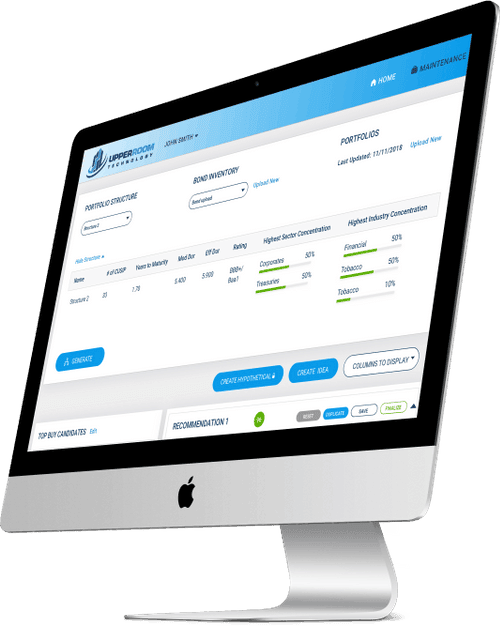
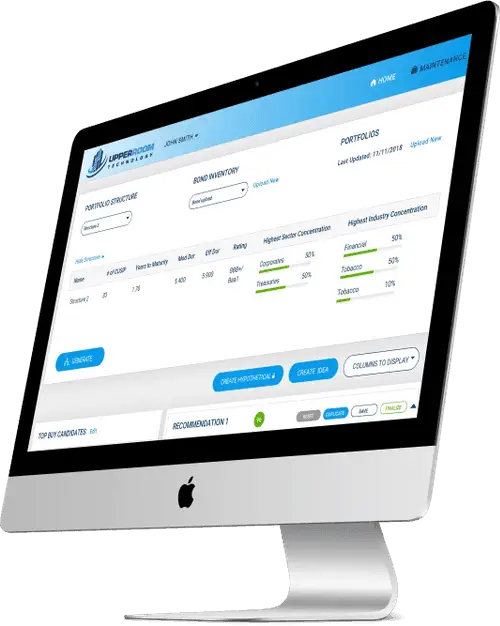
feat: change images

diff --git a/css/home/media.css b/css/home/media.css
@@ -1,4 +1,4 @@
-@media screen and (max-width:1035px){.video-text-block{min-width:345px;min-height:200px}}@media screen and (max-width:991px){.services-video-section,.video-background-image-block.video-cover,.video-section{height:94vh}.nav-menu,.nav-menu.case-study-menu,.the-result-section.drum-the-results-section{height:auto}.video-text{width:auto;margin-bottom:40px;font-size:80px;line-height:100px}.android,.feature-3-text{margin-bottom:0}.video-text.services{text-align:center}.nav-menu{background-color:#fff}.case-study-paragraph-text.feature-3-text.drum-feature-3-text,.nav-link,.nav-link.w--current,.our-row,.the-result-row,.w-col-medium-12{width:100%}.nav-link:hover{color:rgba(10,38,48,.5)}.menu-button,.menu-button-home,.menu-button.our-services-menu,.nav-link.white-link{color:#0a2630}.case-study-h2.carousel-title{margin-top:40%}.video-container.services{padding-right:16px;padding-left:16px;-webkit-box-pack:center;-webkit-justify-content:center;-ms-flex-pack:center;justify-content:center}.video-text-block.services{position:static;-webkit-box-align:center;-webkit-align-items:center;-ms-flex-align:center;align-items:center}.nav-link-block{-webkit-box-align:start;-webkit-align-items:flex-start;-ms-flex-align:start;align-items:flex-start}.nav-underline{left:19px;display:block}.nav-underline.services{background-color:#0a2630}.contact-us-gradient{width:100%;background-image:linear-gradient(135deg,#a43985,#4360be);-webkit-transition:background-color .2s;transition:background-color .2s}.contact-us-gradient:hover{background-image:-webkit-gradient(linear,left top,right top,from(#eb1f3b),color-stop(33%,#a43985),color-stop(66%,#4360be),to(#00ace4));background-image:linear-gradient(90deg,#eb1f3b,#a43985 33%,#4360be 66%,#00ace4)}.footer-column-1{padding-left:16px}.footer-column-2{padding-right:16px}.case-study-1-image{right:-40%}.case-study-2-image{top:auto;right:-19%;bottom:29%;max-width:100%}.case-study-6-image{top:15%;right:6%;bottom:auto;max-width:100%}.case-study-4-image{left:auto;top:24%;right:13%;max-width:80%}.case-study-3-image{top:auto;right:-20%;bottom:5%;max-width:100%}.case-study-7-image{top:auto;right:-7%;bottom:-5%;max-width:100%}.case-study-8-image{top:11%;right:-10%;bottom:auto}.case-study-9-image{top:6%;right:-5%}.mobile-case-study-hero-section,.mobile-case-study-hero-section.dreamsave-hero{height:460px}.mobile-case-study-hero-section.les-mills-hero-section{height:540px}.case-study-web-container,.mobile-case-study-container{padding-right:24px;padding-left:24px}.about-container,.services-container{padding-right:16px;padding-left:16px}.feature-3-row.dreamsave-feature-3-row,.mobile-case-study-container.the-result{margin-top:80px}.mobile-case-study-container.the-result.drum-the-result{margin-bottom:80px}.case-study-mobile-hero-right-column.drum-cast-study-mobile-hero-right-column,.case-study-mobile-hero-right-column.les-mills-mobile-hero-right-column,.feature-1-right-column{-webkit-box-align:center;-webkit-align-items:center;-ms-flex-align:center;align-items:center}.story-section{height:720px}.story-section.dreamsave-story{height:320px}.image-section-1.drum-image-section-1{height:430px}.ux-section{height:1260px;padding-top:80px}.the-result-section.paga,.ux-section.drum-ux-section{height:auto;padding-bottom:80px}.ux-section.dreamsave-ux-section{height:1060px}.app-design-and-features-section{height:1860px;padding-top:80px;padding-bottom:80px}.app-design-and-features-section.drum-app-design-and-features-section{height:1600px}.app-design-and-features-section.dreamsave-app-design-and-features-section{height:auto;padding-top:30px}.feature-1-row{max-height:340px;margin-top:60px}.feature-1-left-column{position:static;display:-webkit-box;display:-webkit-flex;display:-ms-flexbox;display:flex;height:100%;-webkit-box-pack:center;-webkit-justify-content:center;-ms-flex-pack:center;justify-content:center;-webkit-box-align:center;-webkit-align-items:center;-ms-flex-align:center;align-items:center}.feature-1-image.drum-feature-1-image{max-width:110%;margin-top:10%;margin-right:0}.feature-2-row{max-height:380px;margin-top:80px}.case-study-web-hero-right-column.simon-kucher-hero-right-column,.feature-2-left-column,.feature-3-right-column,.grid-image-area.simon-kucher-grid-image-area{display:-webkit-box;display:-webkit-flex;display:-ms-flexbox;display:flex;-webkit-box-align:center;-webkit-align-items:center;-ms-flex-align:center;align-items:center}.feature-2-right-column,.feature-3-left-column{-webkit-box-pack:center;-webkit-justify-content:center;-ms-flex-pack:center;justify-content:center}.feature-2-gradient-block,.feature-2-rectangle-block{right:40%;height:290px}.feature-3-row{max-height:280px;margin-top:120px}.feature-4-row{max-height:360px;margin-top:80px}.feature-4-image{top:10%;right:0;max-width:100%}.feature-4-text{max-width:260px}.tech-stack-section{height:620px;padding-top:60px}.tech-stack-section.dreamsave-tech-stack-section,.tech-stack-section.drum-tech-stack-section{height:auto;padding-top:120px}.android{max-height:128px}.carousel-section.upperroom-carousel-section,.carousel-section.worldroamer-carousel-section,.tech-stack-subheader{margin-top:0}.image-section-2{height:300px}.image-section-2.drum-image-section-2{height:400px}.the-result-section{height:910px}.the-result-column.left{-webkit-box-pack:end;-webkit-justify-content:flex-end;-ms-flex-pack:end;justify-content:flex-end}.the-result-column.right{-webkit-box-pack:start;-webkit-justify-content:flex-start;-ms-flex-pack:start;justify-content:flex-start}.app-store-button{max-width:200px;margin-right:16px;margin-left:16px}.app-store-button.bose-app-store-button{margin-right:0;margin-left:0}.web-hero-image{left:10%;top:28%;max-width:480px}.web-hero-image.bose-hero-image{position:static;max-width:120%;margin-top:20%}.web-section-1{height:1000px}.case-study-h2.section-1-header,.case-study-h2.section-1-header.kenzie-online-section-1-header{max-width:100%}.case-study-h2.ux-header.drum-ux-header{margin-bottom:24px}.case-study-h3.kenzie-online-section-1-column-h3,.h5.case-studies-link-text.bose,.h5.case-studies-link-text.cheapism,.h5.case-studies-link-text.paga,.h5.case-studies-link-text.upperroom,.h5.case-studies-link-text.worldroamer{width:auto}.case-study-paragraph-text.ux-column-text.drum-ux-column-text{margin-bottom:24px;padding-right:0}.web-section-2{padding-top:80px}.web-section-2.cheapism-web-section-2{padding-bottom:80px}.section-2-grid{-ms-grid-columns:1.5fr 1fr 1fr;grid-template-columns:1.5fr 1fr 1fr}.section-2-image{left:0;top:16%;right:auto;bottom:auto;max-width:90%}.section-2-image.worldroamer-section-2-image{left:auto;right:0;max-width:140%}.web-background-gradient{top:6%;width:140%;max-width:none}.web-background-gradient.web-gradient-2{top:2%}.web-background-gradient.web-gradient-2.simon-kucher-gradient{top:4%;z-index:-1}.carousel-section{margin-top:-40%}.carousel-section.simon-kucher-carousel-section{height:1640px;margin-top:-48%}.carousel-section.cheapism-carousel-section{margin-top:-25%}.feature-2-image{max-width:90%}.section-image-1-1,.tech-stack-logo.dynamodb,.tech-stack-logo.ruby{max-width:25%}.app-store-hover.left-hover{left:auto;right:0;max-width:200px;margin-right:16px}.app-store-hover.left-hover.bose-hover-link{left:0;right:auto;margin-right:0}.app-store-hover.right-hover{left:16px;right:auto;max-width:200px}.app-store-hover.right-hover.bose-hover-link,.mobile-case-study-hero-image.dreamsave-hero{left:0}.who-we-are-section{height:auto;padding-bottom:100px}.about-container{display:-webkit-box;display:-webkit-flex;display:-ms-flexbox;display:flex;-webkit-box-orient:vertical;-webkit-box-direction:normal;-webkit-flex-direction:column;-ms-flex-direction:column;flex-direction:column;-webkit-box-pack:center;-webkit-justify-content:center;-ms-flex-pack:center;justify-content:center;-webkit-box-align:start;-webkit-align-items:flex-start;-ms-flex-align:start;align-items:flex-start}.who-we-are-header{max-width:80%}.our-section{height:auto;padding-top:0}.our-1{padding-left:0}.case-studies-link-block.link-to-client{width:230px}.background-text{right:0}.our-photo-block{width:100%;-webkit-box-pack:center;-webkit-justify-content:center;-ms-flex-pack:center;justify-content:center}.press-section{height:220px;margin-top:80px;margin-bottom:80px}.about-grid{margin-right:16px;margin-left:16px;grid-column-gap:40px;grid-row-gap:40px}.heading-2{width:80%}.link-arrow,.w-nav[data-collapse=medium] .w-nav-menu{display:none}.link-arrow.cheapism-arrow,.link-arrow.simon-kucher-arrow,.w-nav[data-collapse=medium] .w-dropdown,.w-nav[data-collapse=medium] .w-dropdown-toggle,.w-nav[data-collapse=medium] .w-nav-button{display:block}.menu-button-home.w--open,.menu-button.w--open{background-color:#fff;color:rgba(10,38,48,.5)}.mobile-case-study-hero-image.les-mills-hero{position:static;right:-10%;bottom:auto;margin-left:24px}.mobile-case-study-hero-image.drum-hero{right:-37%;bottom:5%;max-width:130%;margin-top:40%}.react{width:80px}.tech-stack-grid{margin-top:40px;grid-row-gap:40px;-ms-grid-rows:auto auto;grid-template-rows:auto auto}.tech-stack-grid.les-mills-tech-stack-grid{-ms-grid-columns:1fr 1fr 1fr;grid-template-columns:1fr 1fr 1fr;-ms-grid-rows:auto auto auto;grid-template-rows:auto auto auto}.tech-stack-grid.upperroom-tech-stack-grid{padding-right:10%;padding-left:10%;-ms-grid-columns:1fr 1fr;grid-template-columns:1fr 1fr;-ms-grid-rows:auto auto auto auto;grid-template-rows:auto auto auto auto}.tech-stack-grid.cheapism-tech-stack-grid{-ms-grid-columns:1fr 1fr 1fr 1fr 1fr;grid-template-columns:1fr 1fr 1fr 1fr 1fr}.tech-stack-logo,.tech-stack-logo.angularjs,.tech-stack-logo.postgresql,.tech-stack-logo.python,.tech-stack-logo.python.upperroom-python{max-width:30%}.tech-stack-logo.css3{max-width:22%}.tech-stack-logo.react{width:auto;max-width:35%}.tech-stack-logo.ruby-on-rails{max-width:55%}.tech-stack-logo.aws,.tech-stack-logo.aws.upperroom-aws,.tech-stack-logo.sinatra{max-width:35%}.tech-stack-logo.apache-spark,.tech-stack-logo.nodejs{max-width:45%}.tech-stack-logo.express{max-width:65%}.tech-stack-logo.docker{max-width:40%}.tech-stack-logo.numpy{max-width:60%}.tech-stack-logo.django,.tech-stack-logo.gradle,.tech-stack-logo.hockeyapp{max-width:50%}.tech-stack-logo.glide{max-width:70%}.w-container{max-width:728px}.w-hidden-main{display:inherit!important}.w-hidden-medium{display:none!important}.w-col-medium-1{width:8.33333333%}.w-col-medium-2{width:16.66666667%}.w-col-medium-3{width:25%}.w-col-medium-4{width:33.33333333%}.w-col-medium-5{width:41.66666667%}.w-col-medium-6{width:50%}.w-col-medium-7{width:58.33333333%}.w-col-medium-8{width:66.66666667%}.w-col-medium-9{width:75%}.w-col-medium-10{width:83.33333333%}.w-col-medium-11{width:91.66666667%}.w-col-stack{width:100%;left:auto;right:auto}.w-nav[data-collapse=medium] .w-dropdown-list{position:static}#w-node-06845fbad4c4-51a1d928,#w-node-06845fbad4c9-51a1d928,#w-node-06845fbad4ce-51a1d928,#w-node-06845fbad4d3-51a1d928,#w-node-06845fbad4d8-51a1d928,#w-node-06845fbad4dd-51a1d928,#w-node-06f9e52e3b5d-51a1d928,#w-node-101d26ec57b4-13a1d91d,#w-node-18d942025f1f-51a1d928,#w-node-1d1bd29e9525-13a1d91d,#w-node-2cf9a08f723f-13a1d91d,#w-node-2d3a9b5f5372-13a1d91d,#w-node-3ef2a8c95340-13a1d91d,#w-node-5afa2b4141cb-51a1d928,#w-node-8b9897048bc7-51a1d928,#w-node-a6691c3c01b7-51a1d928,#w-node-bc2aac6be62e-51a1d928,#w-node-d9f5ba4da3ff-13a1d91d{-ms-grid-row:span 1;grid-row-start:span 1;-ms-grid-row-span:1;grid-row-end:span 1;-ms-grid-column:span 2;grid-column-start:span 2;-ms-grid-column-span:2;grid-column-end:span 2}#w-node-298f11dfe28f-7da1d925,#w-node-2ca8e4c047b7-0da1d924,#w-node-3a5c2bf0c400-75a1d922,#w-node-40137c4dc0b5-0da1d924,#w-node-42e04e9fefc5-f0a1d921,#w-node-448fa5e1ef84-0da1d924,#w-node-450d89e33157-f0a1d921,#w-node-450d89e3315c-f0a1d921,#w-node-46e349cdef13-75a1d922,#w-node-55a097ee2019-0da1d924,#w-node-58c67d64cb7f-7da1d925,#w-node-5b063188d06f-0da1d924,#w-node-5c1fe7d72e95-75a1d922,#w-node-69ca4a23d3d9-f0a1d921,#w-node-6ca5c5412652-75a1d922,#w-node-6e1277f562df-75a1d922,#w-node-6e1277f562ee-75a1d922,#w-node-6e1277f56302-75a1d922,#w-node-6e1277f56311-75a1d922,#w-node-6e1277f56316-75a1d922,#w-node-76bf697878cf-f0a1d921,#w-node-7a69043137e0-7da1d925,#w-node-8669d5561be8-efa1d926,#w-node-89755800a80e-7da1d925,#w-node-8fb881255921-f0a1d921,#w-node-914f981ac94f-3da1d91f,#w-node-a3a165df0f13-0da1d924,#w-node-a7dc7988a0dd-3da1d91f,#w-node-a861d5d58847-f0a1d921,#w-node-a88c9e3ceb15-f0a1d921,#w-node-ad61a54bc5a7-efa1d926,#w-node-ad61a54bc5ac-efa1d926,#w-node-ad61a54bc5c0-efa1d926,#w-node-ad61a54bc5cf-efa1d926,#w-node-b45643c8a7b7-3da1d91f,#w-node-b45643c8a7e4-3da1d91f,#w-node-b45643c8a7ee-3da1d91f,#w-node-bf2468896e77-7da1d925,#w-node-bf4b518e3d95-7da1d925,#w-node-cbc8629a9e01-3da1d91f,#w-node-d0d2996bf20a-7da1d925,#w-node-e283ebfd7c9d-7da1d925,#w-node-e50c2395d81a-7da1d925,#w-node-e73399fb3341-f0a1d921,#w-node-e7755a4a6105-f0a1d921,#w-node-eb8fdf6b0d26-0da1d924,#w-node-eb8fdf6b0d2b-0da1d924,#w-node-eb8fdf6b0d4e-0da1d924,#w-node-f02d095ae176-7da1d925,#w-node-fa8120c3dde0-0da1d924,#w-node-fb1b671c02a1-7da1d925,#w-node-fb1b671c02a6-7da1d925,#w-node-fb1b671c02ab-7da1d925,#w-node-fb1b671c02b0-7da1d925,#w-node-fb1b671c02ce-7da1d925,#w-node-fb1b671c02d8-7da1d925,#w-node-fb4a26c662b3-3da1d91f{-ms-grid-row:span 1;grid-row-start:span 1;-ms-grid-row-span:1;grid-row-end:span 1;-ms-grid-column:span 1;grid-column-start:span 1;-ms-grid-column-span:1;grid-column-end:span 1}}
+@media screen and (max-width:991px){.services-video-section,.video-background-image-block.video-cover,.video-section{height:94vh}.nav-menu,.nav-menu.case-study-menu,.the-result-section.drum-the-results-section{height:auto}.video-text{width:auto;margin-bottom:40px;font-size:80px;line-height:100px}.android,.feature-3-text{margin-bottom:0}.video-text.services{text-align:center}.nav-menu{background-color:#fff}.case-study-paragraph-text.feature-3-text.drum-feature-3-text,.nav-link,.nav-link.w--current,.our-row,.the-result-row,.w-col-medium-12{width:100%}.nav-link:hover{color:rgba(10,38,48,.5)}.menu-button,.menu-button-home,.menu-button.our-services-menu,.nav-link.white-link{color:#0a2630}.case-study-h2.carousel-title{margin-top:40%}.video-container.services{padding-right:16px;padding-left:16px;-webkit-box-pack:center;-webkit-justify-content:center;-ms-flex-pack:center;justify-content:center}.video-text-block.services{position:static;-webkit-box-align:center;-webkit-align-items:center;-ms-flex-align:center;align-items:center}.nav-link-block{-webkit-box-align:start;-webkit-align-items:flex-start;-ms-flex-align:start;align-items:flex-start}.nav-underline{left:19px;display:block}.nav-underline.services{background-color:#0a2630}.contact-us-gradient{width:100%;background-image:linear-gradient(135deg,#a43985,#4360be);-webkit-transition:background-color .2s;transition:background-color .2s}.contact-us-gradient:hover{background-image:-webkit-gradient(linear,left top,right top,from(#eb1f3b),color-stop(33%,#a43985),color-stop(66%,#4360be),to(#00ace4));background-image:linear-gradient(90deg,#eb1f3b,#a43985 33%,#4360be 66%,#00ace4)}.footer-column-1{padding-left:16px}.footer-column-2{padding-right:16px}.case-study-1-image{right:-40%}.case-study-2-image{top:auto;right:-19%;bottom:29%;max-width:100%}.case-study-6-image{top:15%;right:6%;bottom:auto;max-width:100%}.case-study-4-image{left:auto;top:24%;right:13%;max-width:80%}.case-study-3-image{top:auto;right:-20%;bottom:5%;max-width:100%}.case-study-7-image{top:auto;right:-7%;bottom:-5%;max-width:100%}.case-study-8-image{top:11%;right:-10%;bottom:auto}.case-study-9-image{top:6%;right:-5%}.mobile-case-study-hero-section,.mobile-case-study-hero-section.dreamsave-hero{height:460px}.mobile-case-study-hero-section.les-mills-hero-section{height:540px}.case-study-web-container,.mobile-case-study-container{padding-right:24px;padding-left:24px}.about-container,.services-container{padding-right:16px;padding-left:16px}.feature-3-row.dreamsave-feature-3-row,.mobile-case-study-container.the-result{margin-top:80px}.mobile-case-study-container.the-result.drum-the-result{margin-bottom:80px}.case-study-mobile-hero-right-column.drum-cast-study-mobile-hero-right-column,.case-study-mobile-hero-right-column.les-mills-mobile-hero-right-column,.feature-1-right-column{-webkit-box-align:center;-webkit-align-items:center;-ms-flex-align:center;align-items:center}.story-section{height:720px}.story-section.dreamsave-story{height:320px}.image-section-1.drum-image-section-1{height:430px}.ux-section{height:1260px;padding-top:80px}.the-result-section.paga,.ux-section.drum-ux-section{height:auto;padding-bottom:80px}.ux-section.dreamsave-ux-section{height:1060px}.app-design-and-features-section{height:1860px;padding-top:80px;padding-bottom:80px}.app-design-and-features-section.drum-app-design-and-features-section{height:1600px}.app-design-and-features-section.dreamsave-app-design-and-features-section{height:auto;padding-top:30px}.feature-1-row{max-height:340px;margin-top:60px}.feature-1-left-column{position:static;display:-webkit-box;display:-webkit-flex;display:-ms-flexbox;display:flex;height:100%;-webkit-box-pack:center;-webkit-justify-content:center;-ms-flex-pack:center;justify-content:center;-webkit-box-align:center;-webkit-align-items:center;-ms-flex-align:center;align-items:center}.feature-1-image.drum-feature-1-image{max-width:110%;margin-top:10%;margin-right:0}.feature-2-row{max-height:380px;margin-top:80px}.case-study-web-hero-right-column.simon-kucher-hero-right-column,.feature-2-left-column,.feature-3-right-column,.grid-image-area.simon-kucher-grid-image-area{display:-webkit-box;display:-webkit-flex;display:-ms-flexbox;display:flex;-webkit-box-align:center;-webkit-align-items:center;-ms-flex-align:center;align-items:center}.feature-2-right-column,.feature-3-left-column{-webkit-box-pack:center;-webkit-justify-content:center;-ms-flex-pack:center;justify-content:center}.feature-2-gradient-block,.feature-2-rectangle-block{right:40%;height:290px}.feature-3-row{max-height:280px;margin-top:120px}.feature-4-row{max-height:360px;margin-top:80px}.feature-4-image{top:10%;right:0;max-width:100%}.feature-4-text{max-width:260px}.tech-stack-section{height:620px;padding-top:60px}.tech-stack-section.dreamsave-tech-stack-section,.tech-stack-section.drum-tech-stack-section{height:auto;padding-top:120px}.android{max-height:128px}.carousel-section.upperroom-carousel-section,.carousel-section.worldroamer-carousel-section,.tech-stack-subheader{margin-top:0}.image-section-2{height:300px}.image-section-2.drum-image-section-2{height:400px}.the-result-section{height:910px}.the-result-column.left{-webkit-box-pack:end;-webkit-justify-content:flex-end;-ms-flex-pack:end;justify-content:flex-end}.the-result-column.right{-webkit-box-pack:start;-webkit-justify-content:flex-start;-ms-flex-pack:start;justify-content:flex-start}.app-store-button{max-width:200px;margin-right:16px;margin-left:16px}.app-store-button.bose-app-store-button{margin-right:0;margin-left:0}.web-hero-image{left:10%;top:28%;max-width:480px}.web-hero-image.bose-hero-image{position:static;max-width:120%;margin-top:20%}.web-section-1{height:1000px}.case-study-h2.section-1-header,.case-study-h2.section-1-header.kenzie-online-section-1-header{max-width:100%}.case-study-h2.ux-header.drum-ux-header{margin-bottom:24px}.case-study-h3.kenzie-online-section-1-column-h3,.h5.case-studies-link-text.bose,.h5.case-studies-link-text.cheapism,.h5.case-studies-link-text.paga,.h5.case-studies-link-text.upperroom,.h5.case-studies-link-text.worldroamer{width:auto}.case-study-paragraph-text.ux-column-text.drum-ux-column-text{margin-bottom:24px;padding-right:0}.web-section-2{padding-top:80px}.web-section-2.cheapism-web-section-2{padding-bottom:80px}.section-2-grid{-ms-grid-columns:1.5fr 1fr 1fr;grid-template-columns:1.5fr 1fr 1fr}.section-2-image{left:0;top:16%;right:auto;bottom:auto;max-width:90%}.section-2-image.worldroamer-section-2-image{left:auto;right:0;max-width:140%}.web-background-gradient{top:6%;width:140%;max-width:none}.web-background-gradient.web-gradient-2{top:2%}.web-background-gradient.web-gradient-2.simon-kucher-gradient{top:4%;z-index:-1}.carousel-section{margin-top:-40%}.carousel-section.simon-kucher-carousel-section{height:1640px;margin-top:-48%}.carousel-section.cheapism-carousel-section{margin-top:-25%}.feature-2-image{max-width:90%}.section-image-1-1,.tech-stack-logo.dynamodb,.tech-stack-logo.ruby{max-width:25%}.app-store-hover.left-hover{left:auto;right:0;max-width:200px;margin-right:16px}.app-store-hover.left-hover.bose-hover-link{left:0;right:auto;margin-right:0}.app-store-hover.right-hover{left:16px;right:auto;max-width:200px}.app-store-hover.right-hover.bose-hover-link,.mobile-case-study-hero-image.dreamsave-hero{left:0}.who-we-are-section{height:auto;padding-bottom:100px}.about-container{display:-webkit-box;display:-webkit-flex;display:-ms-flexbox;display:flex;-webkit-box-orient:vertical;-webkit-box-direction:normal;-webkit-flex-direction:column;-ms-flex-direction:column;flex-direction:column;-webkit-box-pack:center;-webkit-justify-content:center;-ms-flex-pack:center;justify-content:center;-webkit-box-align:start;-webkit-align-items:flex-start;-ms-flex-align:start;align-items:flex-start}.who-we-are-header{max-width:80%}.our-section{height:auto;padding-top:0}.our-1{padding-left:0}.case-studies-link-block.link-to-client{width:230px}.background-text{right:0}.our-photo-block{width:100%;-webkit-box-pack:center;-webkit-justify-content:center;-ms-flex-pack:center;justify-content:center}.press-section{height:220px;margin-top:80px;margin-bottom:80px}.about-grid{margin-right:16px;margin-left:16px;grid-column-gap:40px;grid-row-gap:40px}.heading-2{width:80%}.link-arrow,.w-nav[data-collapse=medium] .w-nav-menu{display:none}.link-arrow.cheapism-arrow,.link-arrow.simon-kucher-arrow,.w-nav[data-collapse=medium] .w-dropdown,.w-nav[data-collapse=medium] .w-dropdown-toggle,.w-nav[data-collapse=medium] .w-nav-button{display:block}.menu-button-home.w--open,.menu-button.w--open{background-color:#fff;color:rgba(10,38,48,.5)}.mobile-case-study-hero-image.les-mills-hero{position:static;right:-10%;bottom:auto;margin-left:24px}.mobile-case-study-hero-image.drum-hero{right:-37%;bottom:5%;max-width:130%;margin-top:40%}.react{width:80px}.tech-stack-grid{margin-top:40px;grid-row-gap:40px;-ms-grid-rows:auto auto;grid-template-rows:auto auto}.tech-stack-grid.les-mills-tech-stack-grid{-ms-grid-columns:1fr 1fr 1fr;grid-template-columns:1fr 1fr 1fr;-ms-grid-rows:auto auto auto;grid-template-rows:auto auto auto}.tech-stack-grid.upperroom-tech-stack-grid{padding-right:10%;padding-left:10%;-ms-grid-columns:1fr 1fr;grid-template-columns:1fr 1fr;-ms-grid-rows:auto auto auto auto;grid-template-rows:auto auto auto auto}.tech-stack-grid.cheapism-tech-stack-grid{-ms-grid-columns:1fr 1fr 1fr 1fr 1fr;grid-template-columns:1fr 1fr 1fr 1fr 1fr}.tech-stack-logo,.tech-stack-logo.angularjs,.tech-stack-logo.postgresql,.tech-stack-logo.python,.tech-stack-logo.python.upperroom-python{max-width:30%}.tech-stack-logo.css3{max-width:22%}.tech-stack-logo.react{width:auto;max-width:35%}.tech-stack-logo.ruby-on-rails{max-width:55%}.tech-stack-logo.aws,.tech-stack-logo.aws.upperroom-aws,.tech-stack-logo.sinatra{max-width:35%}.tech-stack-logo.apache-spark,.tech-stack-logo.nodejs{max-width:45%}.tech-stack-logo.express{max-width:65%}.tech-stack-logo.docker{max-width:40%}.tech-stack-logo.numpy{max-width:60%}.tech-stack-logo.django,.tech-stack-logo.gradle,.tech-stack-logo.hockeyapp{max-width:50%}.tech-stack-logo.glide{max-width:70%}.w-container{max-width:728px}.w-hidden-main{display:inherit!important}.w-hidden-medium{display:none!important}.w-col-medium-1{width:8.33333333%}.w-col-medium-2{width:16.66666667%}.w-col-medium-3{width:25%}.w-col-medium-4{width:33.33333333%}.w-col-medium-5{width:41.66666667%}.w-col-medium-6{width:50%}.w-col-medium-7{width:58.33333333%}.w-col-medium-8{width:66.66666667%}.w-col-medium-9{width:75%}.w-col-medium-10{width:83.33333333%}.w-col-medium-11{width:91.66666667%}.w-col-stack{width:100%;left:auto;right:auto}.w-nav[data-collapse=medium] .w-dropdown-list{position:static}#w-node-06845fbad4c4-51a1d928,#w-node-06845fbad4c9-51a1d928,#w-node-06845fbad4ce-51a1d928,#w-node-06845fbad4d3-51a1d928,#w-node-06845fbad4d8-51a1d928,#w-node-06845fbad4dd-51a1d928,#w-node-06f9e52e3b5d-51a1d928,#w-node-101d26ec57b4-13a1d91d,#w-node-18d942025f1f-51a1d928,#w-node-1d1bd29e9525-13a1d91d,#w-node-2cf9a08f723f-13a1d91d,#w-node-2d3a9b5f5372-13a1d91d,#w-node-3ef2a8c95340-13a1d91d,#w-node-5afa2b4141cb-51a1d928,#w-node-8b9897048bc7-51a1d928,#w-node-a6691c3c01b7-51a1d928,#w-node-bc2aac6be62e-51a1d928,#w-node-d9f5ba4da3ff-13a1d91d{-ms-grid-row:span 1;grid-row-start:span 1;-ms-grid-row-span:1;grid-row-end:span 1;-ms-grid-column:span 2;grid-column-start:span 2;-ms-grid-column-span:2;grid-column-end:span 2}#w-node-298f11dfe28f-7da1d925,#w-node-2ca8e4c047b7-0da1d924,#w-node-3a5c2bf0c400-75a1d922,#w-node-40137c4dc0b5-0da1d924,#w-node-42e04e9fefc5-f0a1d921,#w-node-448fa5e1ef84-0da1d924,#w-node-450d89e33157-f0a1d921,#w-node-450d89e3315c-f0a1d921,#w-node-46e349cdef13-75a1d922,#w-node-55a097ee2019-0da1d924,#w-node-58c67d64cb7f-7da1d925,#w-node-5b063188d06f-0da1d924,#w-node-5c1fe7d72e95-75a1d922,#w-node-69ca4a23d3d9-f0a1d921,#w-node-6ca5c5412652-75a1d922,#w-node-6e1277f562df-75a1d922,#w-node-6e1277f562ee-75a1d922,#w-node-6e1277f56302-75a1d922,#w-node-6e1277f56311-75a1d922,#w-node-6e1277f56316-75a1d922,#w-node-76bf697878cf-f0a1d921,#w-node-7a69043137e0-7da1d925,#w-node-8669d5561be8-efa1d926,#w-node-89755800a80e-7da1d925,#w-node-8fb881255921-f0a1d921,#w-node-914f981ac94f-3da1d91f,#w-node-a3a165df0f13-0da1d924,#w-node-a7dc7988a0dd-3da1d91f,#w-node-a861d5d58847-f0a1d921,#w-node-a88c9e3ceb15-f0a1d921,#w-node-ad61a54bc5a7-efa1d926,#w-node-ad61a54bc5ac-efa1d926,#w-node-ad61a54bc5c0-efa1d926,#w-node-ad61a54bc5cf-efa1d926,#w-node-b45643c8a7b7-3da1d91f,#w-node-b45643c8a7e4-3da1d91f,#w-node-b45643c8a7ee-3da1d91f,#w-node-bf2468896e77-7da1d925,#w-node-bf4b518e3d95-7da1d925,#w-node-cbc8629a9e01-3da1d91f,#w-node-d0d2996bf20a-7da1d925,#w-node-e283ebfd7c9d-7da1d925,#w-node-e50c2395d81a-7da1d925,#w-node-e73399fb3341-f0a1d921,#w-node-e7755a4a6105-f0a1d921,#w-node-eb8fdf6b0d26-0da1d924,#w-node-eb8fdf6b0d2b-0da1d924,#w-node-eb8fdf6b0d4e-0da1d924,#w-node-f02d095ae176-7da1d925,#w-node-fa8120c3dde0-0da1d924,#w-node-fb1b671c02a1-7da1d925,#w-node-fb1b671c02a6-7da1d925,#w-node-fb1b671c02ab-7da1d925,#w-node-fb1b671c02b0-7da1d925,#w-node-fb1b671c02ce-7da1d925,#w-node-fb1b671c02d8-7da1d925,#w-node-fb4a26c662b3-3da1d91f{-ms-grid-row:span 1;grid-row-start:span 1;-ms-grid-row-span:1;grid-row-end:span 1;-ms-grid-column:span 1;grid-column-start:span 1;-ms-grid-column-span:1;grid-column-end:span 1}}
 @media screen and (max-width:767px){.video-section{height:94vh}.video-text{font-size:40px;line-height:60px}.w-nav-brand{padding-left:10px}.brand{margin-left:20px;padding-left:0}.case-study-white-cover,.w-nav[data-collapse=small] .w-nav-menu{display:none}.w-nav[data-collapse=small] .w-nav-button{display:block}.case-studies-container,.company-logo,.row{height:auto}.case-study-column{height:300px}.who-we-work-with-section{height:980px;padding-top:80px}.contact-us-section{overflow:hidden;height:880px}.footer-section{height:160px}.who-we-work-with-container{margin-right:24px;margin-left:24px}.company-logo.adp,.company-logo.greenchef,.company-logo.paga,.link-block{margin-left:0}.who-we-work-with-row{margin-bottom:0}.who-we-work-with-header{width:250px}.enterprise-startup-column{margin-top:64px;padding-left:0}.footer-column-1,.footer-column-2{padding-left:24px}.who-we-work-with-left-column{padding-right:0}.company-logos-row{display:block;width:100%;height:auto;margin-bottom:24px}.company-logo-column{display:-webkit-box;display:-webkit-flex;display:-ms-flexbox;display:flex;height:48px}.contact-us-gradient{height:880px}.footer-row{-webkit-box-orient:vertical;-webkit-box-direction:normal;-webkit-flex-direction:column;-ms-flex-direction:column;flex-direction:column;-webkit-box-pack:center;-webkit-justify-content:center;-ms-flex-pack:center;justify-content:center;-webkit-box-align:start;-webkit-align-items:flex-start;-ms-flex-align:start;align-items:flex-start}.footer-text{font-size:14px;line-height:21px}.footer-column-2{margin-top:24px;padding-right:0;-webkit-box-pack:start;-webkit-justify-content:flex-start;-ms-flex-pack:start;justify-content:flex-start}.link-block{width:24px;margin-right:40px}.form-block,.w-col{width:100%}.case-study-gradient.case-6{z-index:1}.case-study-1-image{right:24px;max-width:60%}.case-study-2-image,.case-study-3-image{right:24px;bottom:16px;max-width:50%}.case-study-6-image{top:auto;right:-5%;bottom:16px;max-width:80%}.case-study-4-image{top:16px;right:-20%;max-width:90%}.case-study-5-image{top:auto;right:-50%;bottom:-70%}.case-study-7-image{top:auto;right:5%;bottom:-5%;max-width:50%}.case-study-8-image{right:-40%}.case-study-9-image{right:0;max-width:80%}.form-grid{grid-template-areas:". . ." "Area Area Area";-ms-grid-rows:auto auto;grid-template-rows:auto auto}.w-container .w-row,.w-row{margin-left:0;margin-right:0}.w-col{left:auto;right:auto}.w-col-small-6{width:50%}#w-node-534512e44d56-ffa1d91c,#w-node-534512e44d5a-ffa1d91c,#w-node-534512e44d5e-ffa1d91c{-ms-grid-row:span 1;grid-row-start:span 1;-ms-grid-row-span:1;grid-row-end:span 1;-ms-grid-column:span 3;grid-column-start:span 3;-ms-grid-column-span:3;grid-column-end:span 3}}
 @media screen and (max-width:479px){.w-nav[data-collapse=tiny] .w-nav-menu{display:none}.w-nav[data-collapse=tiny] .w-dropdown,.w-nav[data-collapse=tiny] .w-dropdown-toggle,.w-nav[data-collapse=tiny] .w-nav-button{display:block}.about-grid{grid-row-gap:40px;-ms-grid-columns:1fr 1fr 1fr 1fr;grid-template-columns:1fr 1fr 1fr 1fr}.cnbc{max-width:30%}.cnn{max-width:50%}.tech-in-asia{max-width:85%}.cisco{max-width:100%}.w-container{max-width:none}.w-hidden-main,.w-hidden-medium,.w-hidden-small{display:inherit!important}.w-hidden-tiny{display:none!important}.w-col,.w-col-tiny-12{width:100%}.w-col-tiny-1{width:8.33333333%}.w-col-tiny-2{width:16.66666667%}.w-col-tiny-3{width:25%}.w-col-tiny-4{width:33.33333333%}.w-col-tiny-5{width:41.66666667%}.w-col-tiny-6{width:50%}.w-col-tiny-7{width:58.33333333%}.w-col-tiny-8{width:66.66666667%}.w-col-tiny-9{width:75%}.w-col-tiny-10{width:83.33333333%}.w-col-tiny-11{width:91.66666667%}.w-nav[data-collapse=tiny] .w-dropdown-list{position:static}#w-node-0846c23b481e-7da1d925,#w-node-0846c23b481f-7da1d925,#w-node-0846c23b4820-7da1d925,#w-node-0846c23b4821-7da1d925,#w-node-0846c23b4822-7da1d925,#w-node-0846c23b4823-7da1d925,#w-node-0846c23b4824-7da1d925,#w-node-0846c23b4825-7da1d925,#w-node-101d26ec57b4-13a1d91d,#w-node-1d1bd29e9525-13a1d91d,#w-node-2cf9a08f723f-13a1d91d,#w-node-2d3a9b5f5372-13a1d91d,#w-node-3ef2a8c95340-13a1d91d,#w-node-5a797bdae53f-75a1d922,#w-node-5a797bdae53f-f0a1d921,#w-node-6c0258b2564a-75a1d922,#w-node-6c0258b2564a-f0a1d921,#w-node-6c5e2e163a67-75a1d922,#w-node-6c5e2e163a67-f0a1d921,#w-node-70af8a729b8e-75a1d922,#w-node-70af8a729b8e-f0a1d921,#w-node-70af8a729b8e-f9a1d927,#w-node-91283ae5522a-75a1d922,#w-node-91283ae5522a-f0a1d921,#w-node-a9b2b2458d4d-75a1d922,#w-node-a9b2b2458d4d-f0a1d921,#w-node-a9b2b2458d4d-f9a1d927,#w-node-d9f5ba4da3ff-13a1d91d,#w-node-db9c5752aba0-75a1d922,#w-node-db9c5752aba0-f0a1d921,#w-node-db9c5752aba0-f9a1d927,#w-node-e2caff8e8296-75a1d922,#w-node-e2caff8e8296-f0a1d921,#w-node-e2caff8e8296-f9a1d927{-ms-grid-row:span 1;grid-row-start:span 1;-ms-grid-row-span:1;grid-row-end:span 1;-ms-grid-column:span 2;grid-column-start:span 2;-ms-grid-column-span:2;grid-column-end:span 2}}@media (min-width:1600px){.image-section-1.drum-image-section-1,.image-section-2.drum-image-section-2,.image-section-2.paga,.web-section-image.kenzie-online-web-section-image,.web-section-image.upperroom,.web-section-image.worldroamer-web-section-image{padding-top:40%}.image-section-2.les-mills-image-section-2{background-image:none}.carousel-section,.carousel-section.kenzie-online-carousel,.carousel-section.simon-kucher-carousel-section,.carousel-section.worldroamer-carousel-section{height:1850px}.kenzie-online-carousel .web-background-gradient.web-gradient-2,.simon-kucher-carousel-section .web-background-gradient.web-gradient-2,.worldroamer-carousel-section .web-background-gradient.web-gradient-2{top:2%}.carousel-section.upperroom-carousel-section{height:1800px}img.link-arrow{width:28px}.case-study-web-container.carousel-container{margin-top:5%}.press-block .cnbc,.press-block .tech-in-asia{height:50px;max-width:100%}.ux-section.dreamsave{height:1060px;margin-bottom:240px}.triangle-gradient.dreamsave-triangle-gradient{width:100%;bottom:-24%}.mobile-case-study-hero-image.dreamsave-hero-image{left:15%;max-width:109%}}@media (min-width:992px){.image-section-2.dreamsave-image-section-2{margin-top:300px}.feature-3-image-1.dreamsave{width:50%}}@media (min-width:768px){.w-lightbox-content{height:96vh;margin-top:2vh}.w-lightbox-view,.w-lightbox-view:before{height:96vh}.w-lightbox-group,.w-lightbox-group .w-lightbox-view,.w-lightbox-group .w-lightbox-view:before{height:84vh}.w-lightbox-image{max-width:96vw;max-height:96vh}.w-lightbox-group .w-lightbox-image{max-width:82.3vw;max-height:84vh}.w-lightbox-left,.w-lightbox-right{display:block;opacity:.5}.w-lightbox-close{opacity:.8}.w-lightbox-control:hover{opacity:1}}
 

diff --git a/index.html b/index.html
@@ -14,7 +14,7 @@
   <link href="css/normalize.css" rel="preload stylesheet" as="style" onload="this.onload=null">
   <link href="css/global.css" rel="preload stylesheet" as="style" onload="this.onload=null">
   <link href="css/home/webflow.css" rel="preload stylesheet" as="style" onload="this.onload=null">
-  <style>:root{--light:#fff;--dark:#000;--maxWContainer:1440px;--heightViewport:100vh;--colorPrimary:#0a2630}.ml-24{margin-left:26px}.mb-40{margin-bottom:40px}.mt-0{margin-top:0}.w-full{width:100%}.h-full{height:100%}.max-w-108{max-width:106px}.video-text-block{min-width:1034px;min-height:320px}.w-container{max-width:var(--maxWContainer)}.align-center{align-items:center}.d-flex{display:flex}.d-flex-column{flex-direction:column}.d-flex-center{display:flex;justify-content:center;align-items:center}.opacity-0{opacity:0}.f-size-16{font-size:16px}.f-size-120{font-size:120px;line-height:120px}.f-bold{font-family:var(--fontBold)}.f-extra{font-family:var(--fontExtraBold)}.f-medium{font-family:var(--fontMedium)}.text-gray{color:var(--colorPrimary)}.letter-spacing-sm{letter-spacing:-.32px}.bg-gray{background-color:var(--colorPrimary)}.bg-dark{background-color:var(--dark)}.bg-light{background-color:var(--light)}.p-absolute{position:absolute}.p-relative{position:relative}.p-fixed{position:fixed}.inset-convert-auto{left:0;top:0;right:auto;bottom:auto}.z-index-0{z-index:0}.z-index-1{z-index:1}.z-index-5{z-index:5}.z-index-10{z-index:10}.z-index-20{z-index:20}.z-index-70{z-index:70}.text-center{text-align:center}.h-60{height:60px}.h-viewport{height:var(--heightViewport)}</style>
+  <style>:root{--light:#fff;--dark:#000;--maxWContainer:1440px;--heightViewport:100vh;--colorPrimary:#0a2630}.ml-24{margin-left:26px}.mb-40{margin-bottom:40px}.mt-0{margin-top:0}.w-full{width:100%}.h-full{height:100%}.max-w-108{max-width:106px}.w-container{max-width:var(--maxWContainer)}.align-center{align-items:center}.d-flex{display:flex}.d-flex-column{flex-direction:column}.d-flex-center{display:flex;justify-content:center;align-items:center}.opacity-0{opacity:0}.f-size-16{font-size:16px}.f-size-120{font-size:120px;line-height:120px}.f-bold{font-family:var(--fontBold)}.f-extra{font-family:var(--fontExtraBold)}.f-medium{font-family:var(--fontMedium)}.text-gray{color:var(--colorPrimary)}.letter-spacing-sm{letter-spacing:-.32px}.bg-gray{background-color:var(--colorPrimary)}.bg-dark{background-color:var(--dark)}.bg-light{background-color:var(--light)}.p-absolute{position:absolute}.p-relative{position:relative}.p-fixed{position:fixed}.inset-convert-auto{left:0;top:0;right:auto;bottom:auto}.z-index-0{z-index:0}.z-index-1{z-index:1}.z-index-5{z-index:5}.z-index-10{z-index:10}.z-index-20{z-index:20}.z-index-70{z-index:70}.text-center{text-align:center}.h-60{height:60px}.h-viewport{height:var(--heightViewport)}</style>
   <link href="css/home/common.css" rel="preload stylesheet" as="style" onload="this.onload=null">
   <link href="css/home/hero.css" rel="preload stylesheet" as="style" onload="this.onload=null">
   <link href="css/home/case-studies.css" rel="preload stylesheet" as="style" onload="this.onload=null">
@@ -137,8 +137,8 @@
         <div class="d-flex h-full align-end case-study-column case-6 w-col w-col-4">
           <div class="bg-gradient-bright case-study-gradient case-6">
             <picture>
-              <source width="408px" height="308px" srcset="images/home-page/webp/discover/drum-dashboard.webp" type="image/webp">
-              <source srcset="images/drum-dashboard.png" type="image/png">
+              <source width="100%" height="100%" srcset="images/home-page/webp/discover/drum-dashboard.webp" type="image/webp">
+              <source srcset="images/drum-dashboard-p-500.png" type="image/png">
               <img loading="lazy" src="images/drum-dashboard.png?nf_resize=fit&w=300" alt="Screenshot of web and mobile app Drum" srcset="images/drum-dashboard-p-500.png 500w, images/drum-dashboard-p-800.png 800w, images/drum-dashboard-p-1080.png 1080w, images/drum-dashboard.png 1563w" sizes="(max-width: 767px) 80vw, (max-width: 991px) 33vw, 28vw" class="case-study-6-image">
             </picture>
             <div class="case-study-white-cover"></div>
@@ -152,8 +152,8 @@
         <div class="d-flex h-full align-end case-study-column w-col w-col-4">
           <div class="bg-gradient-bland case-study-gradient case-7">
             <picture>
-              <source width="288px" height="353px" srcset="images/home-page/webp/discover/iMac-right.webp" type="image/webp">
-              <source srcset="images/iMac-right.png" type="image/png">
+              <source width="288px" height="358px" srcset="images/home-page/webp/discover/iMac-right.webp" type="image/webp">
+              <source srcset="images/iMac-right-p-500" type="image/png">
               <img loading="lazy" src="images/iMac-right.png?nf_resize=fit&w=300" alt="Screenshot of website Kenzie Academy" srcset="images/iMac-right-p-500.png 500w, images/iMac-right-p-800.png 800w, images/iMac-right.png 1052w" sizes="(max-width: 767px) 50vw, (max-width: 991px) 33vw, 20vw" class="case-study-7-image">
             </picture>
           </div>

diff --git a/css/home/case-studies.css b/css/home/case-studies.css
@@ -1,1 +1,1 @@
-.case-study-1-image,.case-study-2-image,.case-study-4-image,.case-study-6-image,.case-study-7-image,.case-study-8-image,.case-study-white-cover{left:auto;position:absolute}.case-studies-container{overflow-x:hidden;height:1200px;max-width:var(--maxWContainer)}.row{height:33.33%}.case-study-column{padding-right:0;padding-left:0;background-color:var(--colorPrimary)}.case-study-column img{height:auto}.case-study-column.case-1{background-color:var(--red)}.case-study-column.case-2{background-color:transparent}.case-study-gradient{position:absolute;z-index:1;width:100%;height:100%}.case-study-gradient.case-1{background-color:var(--caseOne)}.case-study-gradient.case-4{background-color:var(--light)}.case-study-gradient.case-3{background-color:var(--caseThree);background-image:none}.case-study-gradient.case-2{background-color:var(--caseTwo)}.case-study-gradient.case-5{background-color:var(--caseFive)}.case-study-gradient.case-6{z-index:2;background-color:var(--light)}.case-study-gradient.case-7{background-color:var(--caseSeven)}.case-study-gradient.case-8{background-color:var(--caseEight)}.case-study-gradient.case-9{background-color:var(--caseNine)}.case-study-1-image{top:17%;right:-11%;bottom:0}.case-study-2-image{top:9%;right:-6%;bottom:auto;max-width:70%}.case-study-6-image{top:18%;right:0;max-width:85%;margin-right:-87px}.case-study-4-image{top:auto;right:6%;bottom:-6%;max-width:80%}.case-study-3-image,.case-study-5-image{bottom:auto;left:auto;position:absolute}.case-study-5-image{top:36%;right:-40%}.case-study-3-image{top:-4%;right:0;max-width:70%}.case-study-7-image{top:auto;right:5%;bottom:-5%;max-width:60%}.case-study-8-image{top:0;right:-25%;bottom:auto}.case-study-9-image{position:absolute;top:-84px}.case-study-white-cover{top:0;right:-400px;bottom:0;width:400px;background-color:#fff}.case-name-and-platforms{position:absolute;left:24px;bottom:40px;z-index:100;text-decoration:none}.hame-case-name{margin-top:0;margin-bottom:8px;color:#fff;font-size:32px;line-height:39px;letter-spacing:.37px}.hame-case-name.drum{color:#fff;text-shadow:var(--textShadowBland)}.hame-case-name.black-text,.home-case-platform.black-text{color:#000;text-shadow:none}.home-case-platform{color:#fff;font-size:16px;line-height:22px;font-family:var(--fontMedium);letter-spacing:var(--letter-spacing-sm)}.home-case-platform.drum{color:#fff}.case-study-link-block{transition:opacity .2s}.case-study-link-block.coming-soon-overlay{background-color:rgba(0,0,0,.4)}.overlay{position:relative;z-index:5;width:100%;height:100%;background-color:rgba(0, 0, 0, 0.1);}
+.case-study-1-image,.case-study-2-image,.case-study-4-image,.case-study-6-image,.case-study-7-image,.case-study-8-image,.case-study-white-cover{left:auto;position:absolute}.case-studies-container{overflow:hidden;height:1200px;max-width:var(--maxWContainer)}.row{height:33.33%}.case-study-column{padding-right:0;padding-left:0;background-color:var(--colorPrimary)}.case-study-column img{height:auto}.case-study-column.case-1{background-color:var(--red)}.case-study-column.case-2{background-color:transparent}.case-study-gradient{position:absolute;z-index:1;width:100%;height:100%}.case-study-gradient.case-1{background-color:var(--caseOne)}.case-study-gradient.case-4{background-color:var(--light)}.case-study-gradient.case-3{background-color:var(--caseThree);background-image:none}.case-study-gradient.case-2{background-color:var(--caseTwo)}.case-study-gradient.case-5{background-color:var(--caseFive)}.case-study-gradient.case-6{z-index:2;background-color:var(--light)}.case-study-gradient.case-7{background-color:var(--caseSeven)}.case-study-gradient.case-8{background-color:var(--caseEight)}.case-study-gradient.case-9{background-color:var(--caseNine)}.case-study-1-image{top:17%;right:-11%;bottom:0}.case-study-2-image{top:9%;right:-6%;bottom:auto;max-width:70%}.case-study-6-image{top:18%;right:0;max-width:85%;margin-right:-87px}.case-study-4-image{top:auto;right:6%;bottom:-6%;max-width:80%}.case-study-3-image,.case-study-5-image{bottom:auto;left:auto;position:absolute}.case-study-5-image{top:36%;right:-40%}.case-study-3-image{top:-4%;right:0;max-width:70%}.case-study-7-image{top:auto;right:5%;bottom:-5%;max-width:60%}.case-study-8-image{top:0;right:-25%;bottom:auto}.case-study-9-image{position:absolute;top:-84px}.case-study-white-cover{top:0;right:-400px;bottom:0;width:400px;background-color:#fff}.case-name-and-platforms{position:absolute;left:24px;bottom:40px;z-index:100;text-decoration:none}.hame-case-name{margin-top:0;margin-bottom:8px;color:#fff;font-size:32px;line-height:39px;letter-spacing:.37px}.hame-case-name.drum{color:#fff;text-shadow:var(--textShadowBland)}.hame-case-name.black-text,.home-case-platform.black-text{color:#000;text-shadow:none}.home-case-platform{color:#fff;font-size:16px;line-height:22px;font-family:var(--fontMedium);letter-spacing:var(--letter-spacing-sm)}.home-case-platform.drum{color:#fff}.case-study-link-block{transition:opacity .2s}.case-study-link-block.coming-soon-overlay{background-color:rgba(0,0,0,.4)}.overlay{position:relative;z-index:5;width:100%;height:100%;background-color:rgba(0,0,0,0.1);}
